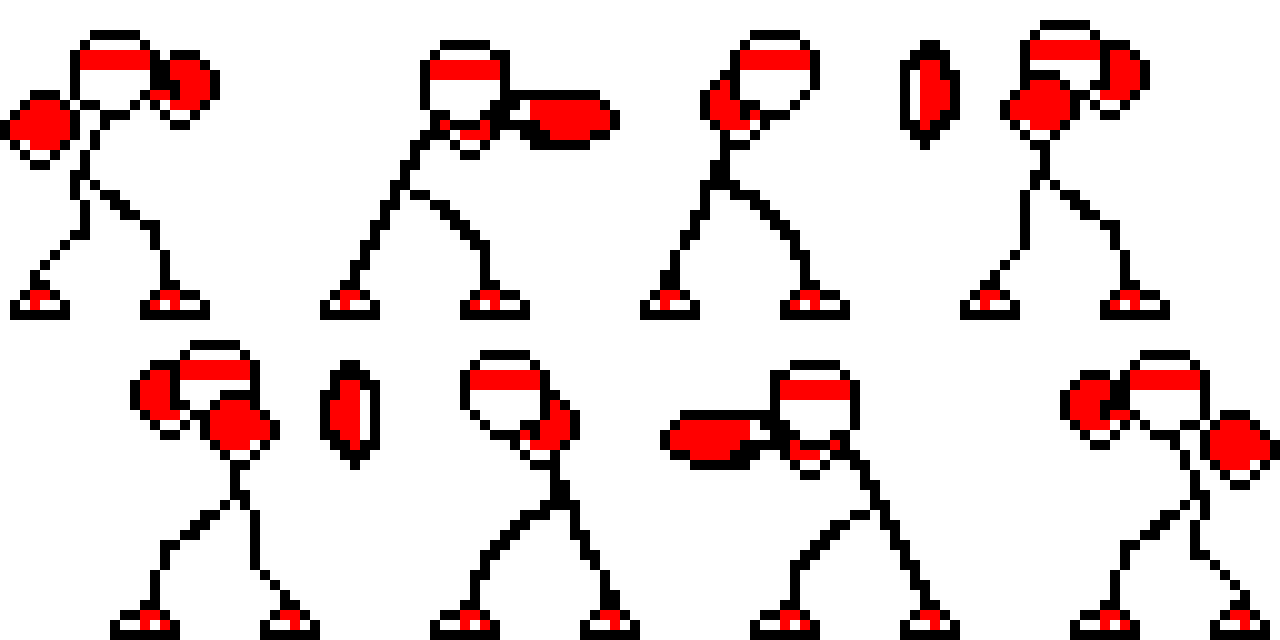
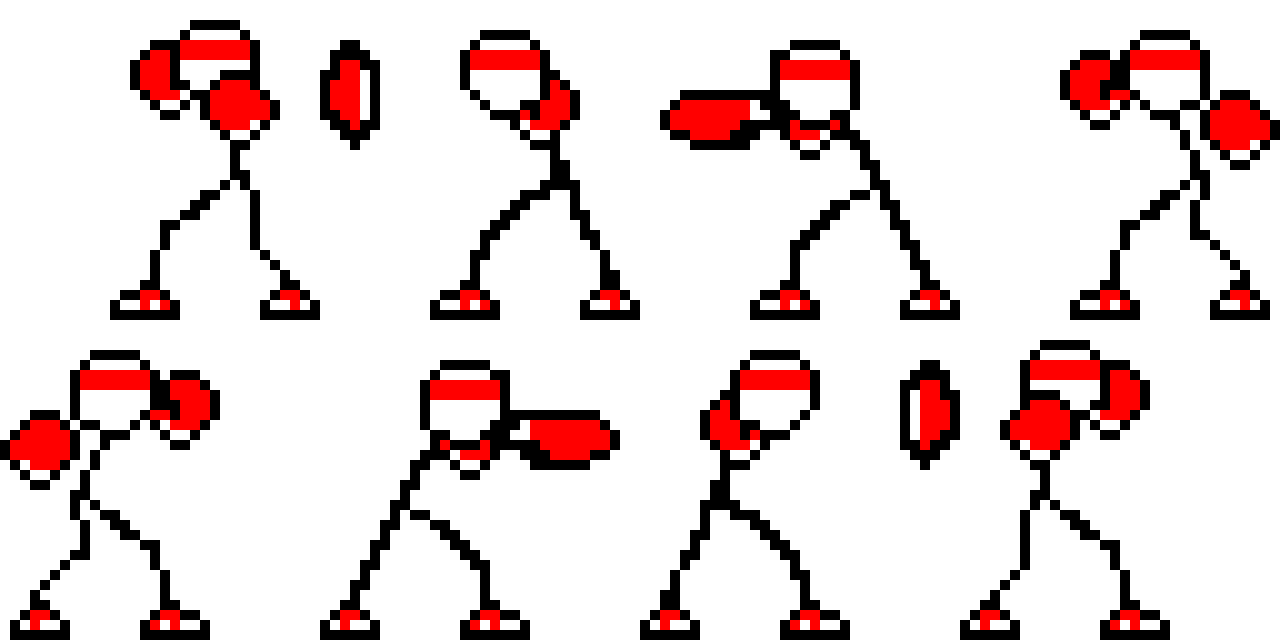
implemented animated player, designed new anim system same day migrating player to new system but it might break idk

Changed region(s): [[0.0, 0.5312, 1.0, 1.0], [0.0, 0.0312, 1.0, 0.5]]

diff --git a/src/champ.c b/src/champ.c
@@ -20,12 +20,13 @@ Champ new_champ(SDL_Renderer* rend, char* name, float walk_spd, float accel){
 	champ.h = 64;
 	champ.x_vel = 0;
 	champ.y_vel = 0;
-	champ.walk_spd = walk_spd / 100;
-	champ.jump_spd = -0.4;
-	champ.accel = accel / 100;
+	champ.walk_spd = 10;
+	champ.air_spd = 15;
+	champ.jump_spd = 15;
 	champ.in_air = false;
 
 	champ.facing = RIGHT;
+	champ.anim_frame = 0;
 
 	char* dirname = malloc(sizeof(char) * 20);
 	// If in the future you are searching through the files wondering why a new character's sprites won't load this malloc might be why
@@ -35,11 +36,17 @@ Champ new_champ(SDL_Renderer* rend, char* name, float walk_spd, float accel){
 	char* filename = malloc(sizeof(char) * 20);
 	strcpy(filename, dirname);
 	strcat(filename, "/idle.png");
-	champ.idle[LEFT] = new_cropped_img(rend, filename, 0, 0, 32 * 10, 32 * 10);
-	champ.idle[RIGHT] = new_cropped_img(rend, filename, 0, 32 * 10, 32 * 10, 32 * 10);
+
+	for(int y = 0; y < 2; y++){
+		for(int x = 0; x < 4; x++){
+			champ.idle[y][x] = new_cropped_img(rend, filename, x * 32 * 10, y * 32 * 10, 32 * 10, 32 * 10);
+		}
+	}
 
 	free(dirname);
 	free(filename);
+
+	champ.anim = &champ.idle;
 
 	return champ;
 }
@@ -47,31 +54,34 @@ Champ new_champ(SDL_Renderer* rend, char* name, float walk_spd, float accel){
 void control_champ(Champ* champ, const bool* keystates){
 	if(keystates[SDL_SCANCODE_W]){
 		if(!champ->in_air){
-			champ->y_vel = champ->jump_spd;
+			champ->y_vel = -champ->jump_spd;
 		}
 	}
 	if(keystates[SDL_SCANCODE_A]){
-		champ->x_vel -= champ->accel; 
-		if(abs(champ->x_vel) > champ->walk_spd){
-			champ->x_vel = -champ->walk_spd; 
+		if(champ->in_air){
+			champ->x_vel = -champ->air_spd;
+		} else {
+			champ->x_vel = -champ->walk_spd;
 		}
 		champ->facing = LEFT;
 	}
 	if(keystates[SDL_SCANCODE_S]){
 	}
 	if(keystates[SDL_SCANCODE_D]){
-		champ->x_vel += champ->accel; 
-		if(abs(champ->x_vel) > champ->walk_spd){
-			champ->x_vel = champ->walk_spd; 
+		if(champ->in_air){
+			champ->x_vel = champ->air_spd;
+		} else {
+			champ->x_vel = champ->walk_spd;
 		}
+		champ->x_vel = champ->walk_spd; 
 		champ->facing = RIGHT;
 	}
 }
 
 void move_champ(Champ* champ){
 	int floor = 300;
-	float gravity = 0.0005;
-	int friction = 5;
+	float gravity = 1;
+	int friction = 1;
 
 	champ->y += champ->y_vel;
 	champ->y_vel += gravity;
@@ -83,19 +93,25 @@ void move_champ(Champ* champ){
 		champ->in_air = true;
 	}
 
-	if(champ->in_air){
-		champ->x_vel *= 2;
-	}
+	printf("%f\n", champ->x_vel);
 	champ->x += champ->x_vel;
-	if(champ->x_vel < -friction){
-		champ->x_vel += friction;
-	} else if(champ->x_vel > friction){
-		champ->x_vel -= friction;
+	if(champ->x_vel < 0){
+		champ->x_vel += 1;
+	} else if(champ->x_vel > 0){
+		champ->x_vel -= 1;
 	} else {
 		champ->x_vel = 0;
 	}
 }
 
+
+void animate_champ(Champ* champ, float frame_rate){
+	champ->anim_frame += frame_rate;
+	if(champ->anim_frame > 3){
+		champ->anim_frame = 0;
+	}
+}
+
 void render_champ(SDL_Renderer* rend, Champ* champ){
-	render_img(rend, &champ->idle[champ->facing], champ->x, champ->y, champ->w, champ->h);
+	render_img(rend, &champ->idle[champ->facing][(int)floor(champ->anim_frame)], champ->x, champ->y, champ->w, champ->h);
 }

diff --git a/src/ui.c b/src/ui.c
@@ -1,9 +1,16 @@
+#include <stdlib.h>
 #include <stdbool.h>
+#include <string.h>
+#include <math.h>
 
 #include <SDL3/SDL.h>
 #include <SDL3_image/SDL_image.h>
 
 #include "ui.h"
+
+///////////////////
+// IMAGE
+///////////////////
 
 Img new_img(SDL_Renderer* rend, char* file){
 	Img img;
@@ -36,4 +43,32 @@ void render_img(SDL_Renderer* rend, Img *img, int x, int y, int w, int h){
 	} else {
 		SDL_RenderTexture(rend, img->tex, NULL, &dest);
 	}
+}
+
+///////////////////
+// ANIMATION
+///////////////////
+
+Anim new_anim(SDL_Renderer* rend, char* filename, int framecount, int w, int h){
+	Anim anim;
+	anim.frames = malloc(sizeof(Img) * framecount);
+	anim.frame = 0;
+	anim.framecount = framecount;
+
+	for(int x = 0; x < framecount; x++){
+		anim.frames[x] = new_cropped_img(rend, filename, x * w, 0, w, h);
+	}
+	return anim;
+}
+
+void render_anim(SDL_Renderer* rend, Anim* anim, int x, int y, int w, int h, float framerate){
+	anim->frame += framerate;
+	if(anim->frame > anim->framecount){
+		anim->frame = 0;
+	}
+	render_img(rend, &anim->frames[(int)floor(anim->frame)], x, y, w, h);
+}
+
+void del_anim(Anim* anim){
+	free(anim->frames);
 }

diff --git a/src/main.c b/src/main.c
@@ -1,3 +1,4 @@
+#include <stdio.h>
 #include <stdbool.h>
 
 #include <SDL3/SDL.h>
@@ -9,8 +10,8 @@
 
 void framerate_cap(Uint8 fps, Uint32 frame_start){
 	Uint32 frame_time = SDL_GetTicks() - frame_start;
-	if(frame_time < 1/fps){
-		SDL_Delay(1/fps - frame_time);
+	if(frame_time < 1000/fps){
+		SDL_Delay(1000/fps - frame_time);
 	}
 }
 
@@ -30,7 +31,6 @@ int main(int argc, char* argv[]){
 	SDL_SetWindowIcon(win, icon.surf);
 
 	Champ champ = new_champ(rend, "frank", 100, 10);
-	Champ champ_farnk = new_champ(rend, "frank", 100, 0);
 
 	const bool* keystates = SDL_GetKeyboardState(NULL);
 	float mouse_x;
@@ -56,16 +56,13 @@ int main(int argc, char* argv[]){
 			}
 		}
 		control_champ(&champ, keystates);
-		control_champ(&champ_farnk, keystates);
 		SDL_SetRenderDrawColor(rend, 255, 0, 0, 1);
 		SDL_RenderClear(rend);
 
 		render_img(rend, &logo, 100, 100, 256, 32);
 		
-		move_champ(&champ_farnk);
-		render_champ(rend, &champ_farnk);
-
 		move_champ(&champ);
+		animate_champ(&champ, 0.02);
 		render_champ(rend, &champ);
 
 		render_cursor(rend, cursor, mouse_x, mouse_y, old_mouse_x, old_mouse_y);

diff --git a/src/ui.h b/src/ui.h
@@ -6,6 +6,10 @@
 #include <SDL3/SDL.h>
 #include <SDL3_image/SDL_image.h>
 
+///////////////////
+// IMAGE
+///////////////////
+
 typedef struct {
 	SDL_Surface* surf;
 	SDL_Texture* tex;
@@ -16,5 +20,19 @@ typedef struct {
 Img new_img(SDL_Renderer* rend, char* filename);
 Img new_cropped_img(SDL_Renderer* rend, char* file, int x, int y, int w, int h);
 void render_img(SDL_Renderer* rend, Img* img, int x, int y, int w, int h);
+
+///////////////////
+// ANIMATIONS
+///////////////////
+
+typedef struct {
+	Img* frames;
+	float frame;
+	int framecount;
+} Anim;
+
+Anim new_anim(SDL_Renderer* rend, char* filename, int framecount, int w, int h);
+void render_anim(SDL_Renderer* rend, Anim* anim, int x, int y, int w, int h, float framerate);
+void del_anim(Anim* anim);
 
 #endif

diff --git a/src/champ.h b/src/champ.h
@@ -12,7 +12,9 @@ typedef enum {
 
 typedef struct {
 	char* name;
-	Img idle[2];
+	Img idle[2][4];
+	Img (*anim)[2][4];
+	float anim_frame;
 	Facing facing;
 	float x;
 	float y;
@@ -20,8 +22,9 @@ typedef struct {
 	int h;
 	float x_vel;
 	float y_vel;
-	float walk_spd;
-	float jump_spd;
+	int walk_spd;
+	int air_spd;
+	int jump_spd;
 	float accel;
 	bool in_air;
 } Champ;
@@ -29,6 +32,7 @@ typedef struct {
 Champ new_champ(SDL_Renderer* rend, char* name, float walk_spd, float accel);
 void control_champ(Champ* champ, const bool* keystates);
 void move_champ(Champ* champ);
+void animate_champ(Champ* champ, float frame_rate);
 void render_champ(SDL_Renderer* rend, Champ* champ);
 
 #endif
